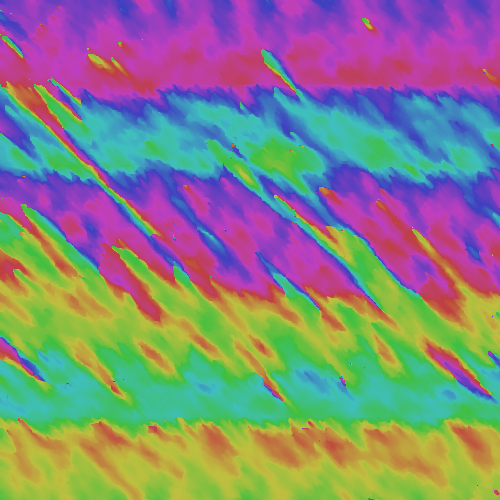
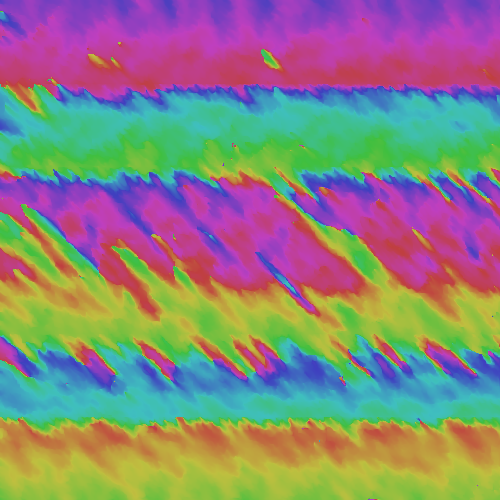
Added more cocriolis

diff --git a/src/main/java/me/alexng/worldGen/pipeline/pipes/WindPipeWorder.java b/src/main/java/me/alexng/worldGen/pipeline/pipes/WindPipeWorder.java
@@ -66,7 +66,7 @@ public class WindPipeWorder implements PipeWorker {
                 }
             }
         }
-        float coriolisStrength = 0.01f * coriolis.magnitude;
+        float coriolisStrength = 0.02f * coriolis.magnitude;
         wind.direction.x += coriolis.direction.x * coriolisStrength;
         wind.direction.y += coriolis.direction.y * coriolisStrength;
         // Vector2f v = wind.direction.normalize(new Vector2f()).mul(1 -
